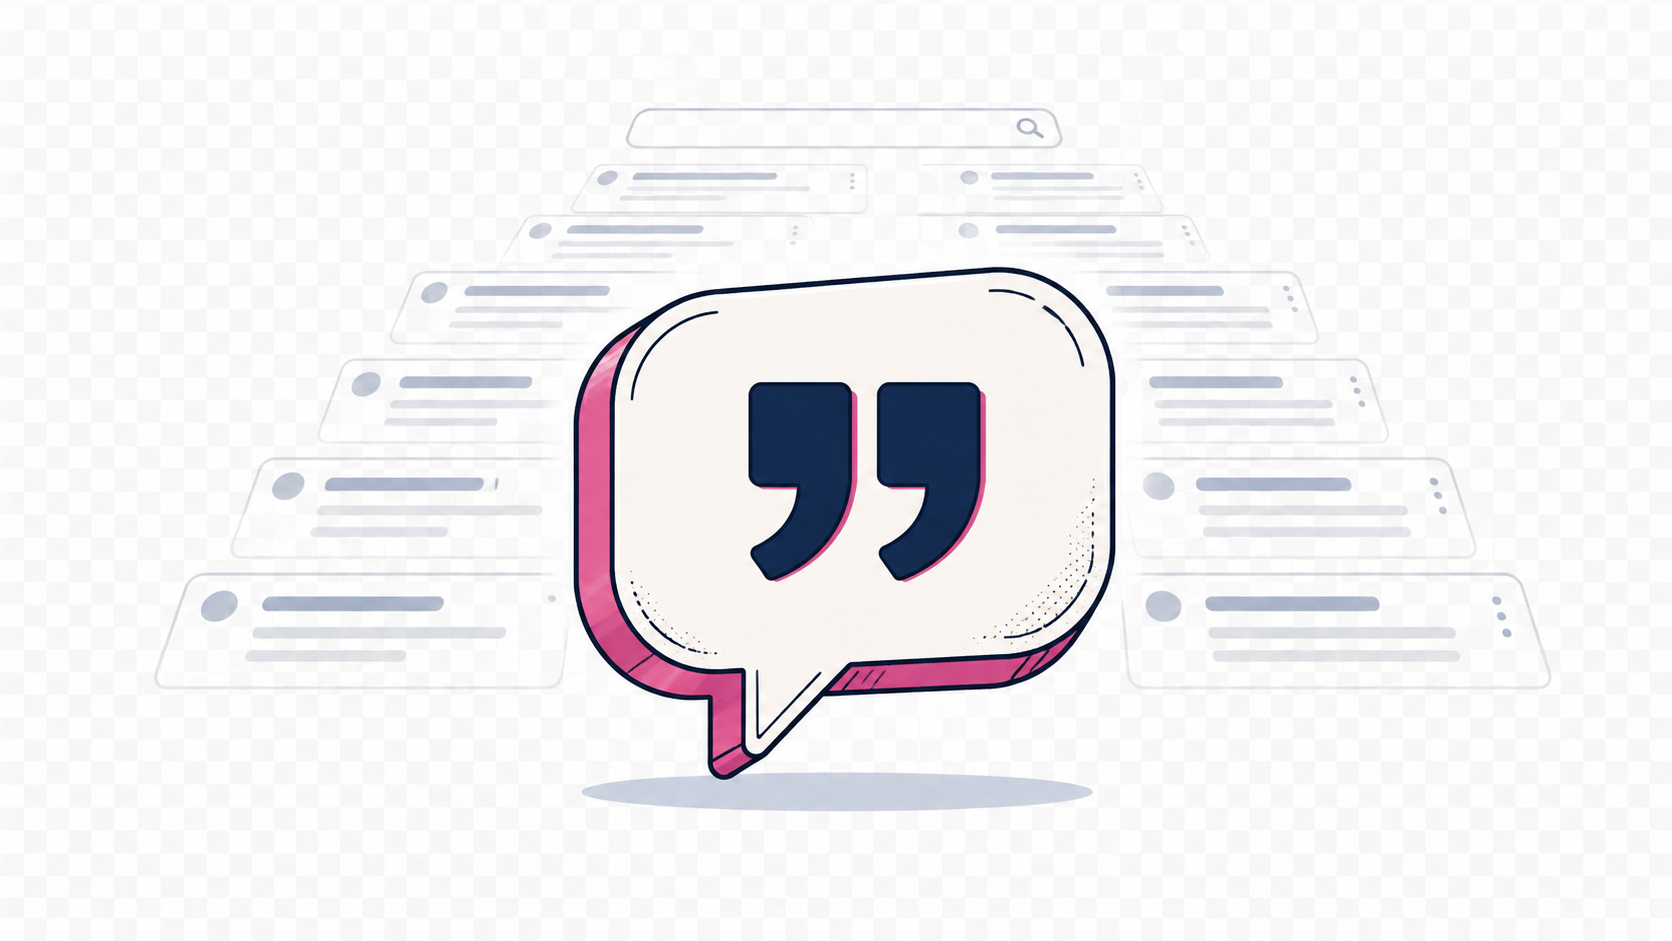
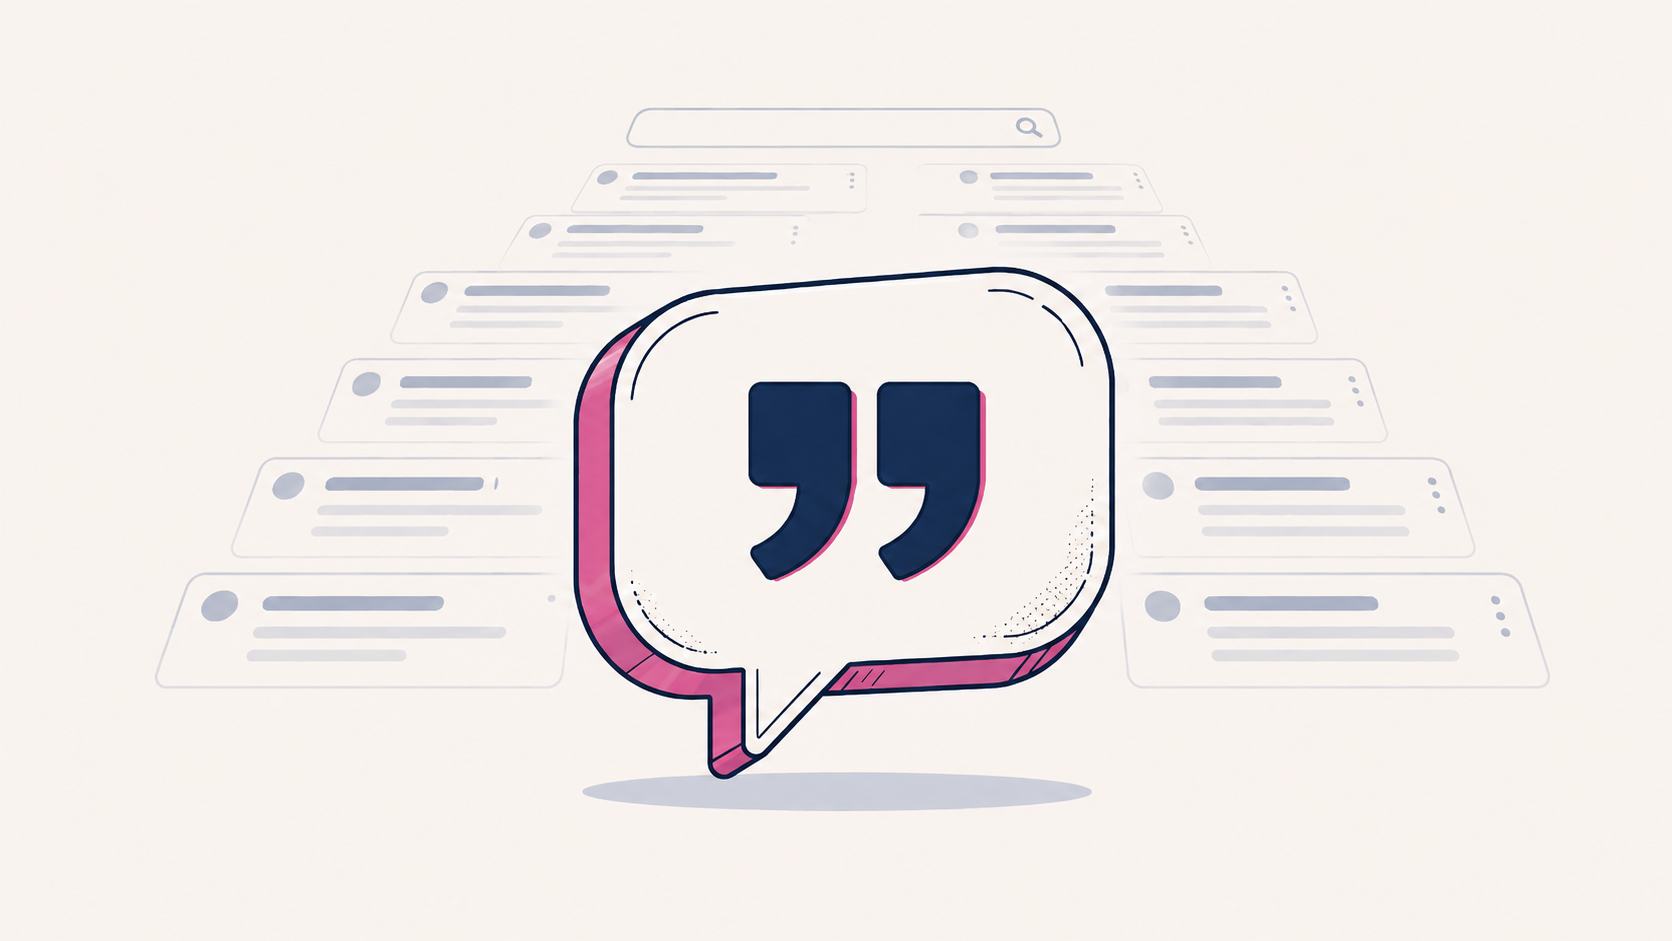
Width fix v2: remove inner constraint so blog + comparison pages are uniform
Previous attempt mixed a wider 980px container with narrower 720px (or 760px)
paragraph constraints — visible result was uneven: text columns centered with
empty margins while CTAs, FAQ blocks, and images spanned the full container.
Reported in Chrome and Safari.

This commit removes the inner-element max-width override on all 5 blog posts
and all 3 comparison pages. Everything inside .article-content / .content-inner
now sits at the full 980px container width.

Trade-off: line length is wider than typographic ideal (~85 chars vs ideal 60-75),
but visual consistency wins. Matches Miri's "use the full width" instruction.

Also:
- Tighten favicon (images/icon.png) by cropping to the mark's bounding box,
  recentering on a square 512x512 canvas. The pink circle mark now fills the
  visible area instead of sitting in a sea of transparency.
- Replace images/blog/citation-is-the-new-ranking.png with the new file Miri
  generated with the correct sand background applied directly in ChatGPT.

diff --git a/blog/buying-enterprise-ai-licence-is-not-a-strategy.html b/blog/buying-enterprise-ai-licence-is-not-a-strategy.html
@@ -122,7 +122,6 @@ body.nav-open .nav-toggle span:nth-child(3){transform:translateY(-7px) rotate(-4
 
 .article-body{background:#fff;padding:72px 60px}
 .article-content{max-width:980px;margin:0 auto}
-.article-content p,.article-content ul,.article-content ol,.article-content h2,.article-content h3,.article-content blockquote,.article-content .faq-block{max-width:720px;margin-left:auto;margin-right:auto}
 .article-content h2{font-size:30px;font-weight:700;color:var(--ink);line-height:1.2;margin:48px 0 16px;letter-spacing:-.5px}
 .article-content h3{font-size:21px;font-weight:700;color:var(--ink);line-height:1.3;margin:36px 0 12px}
 .article-content p{font-size:17px;line-height:1.72;color:var(--body-sand);margin-bottom:22px}

diff --git a/blog/citation-is-the-new-ranking.html b/blog/citation-is-the-new-ranking.html
@@ -120,7 +120,6 @@ body.nav-open .nav-toggle span:nth-child(3){transform:translateY(-7px) rotate(-4
 .article-header .lede{font-size:18px;color:var(--body-dark);line-height:1.65;max-width:680px}
 .article-body{background:#fff;padding:72px 60px}
 .article-content{max-width:980px;margin:0 auto}
-.article-content p,.article-content ul,.article-content ol,.article-content h2,.article-content h3,.article-content blockquote,.article-content .faq-block{max-width:720px;margin-left:auto;margin-right:auto}
 .article-content h2{font-size:30px;font-weight:700;color:var(--ink);line-height:1.2;margin:48px 0 16px;letter-spacing:-.5px}
 .article-content h3{font-size:21px;font-weight:700;color:var(--ink);line-height:1.3;margin:36px 0 12px}
 .article-content p{font-size:17px;line-height:1.72;color:var(--body-sand);margin-bottom:22px}

diff --git a/blog/the-day-one-consideration-list.html b/blog/the-day-one-consideration-list.html
@@ -120,7 +120,6 @@ body.nav-open .nav-toggle span:nth-child(3){transform:translateY(-7px) rotate(-4
 .article-header .lede{font-size:18px;color:var(--body-dark);line-height:1.65;max-width:680px}
 .article-body{background:#fff;padding:72px 60px}
 .article-content{max-width:980px;margin:0 auto}
-.article-content p,.article-content ul,.article-content ol,.article-content h2,.article-content h3,.article-content blockquote,.article-content .faq-block{max-width:720px;margin-left:auto;margin-right:auto}
 .article-content h2{font-size:30px;font-weight:700;color:var(--ink);line-height:1.2;margin:48px 0 16px;letter-spacing:-.5px}
 .article-content h3{font-size:21px;font-weight:700;color:var(--ink);line-height:1.3;margin:36px 0 12px}
 .article-content p{font-size:17px;line-height:1.72;color:var(--body-sand);margin-bottom:22px}

diff --git a/blog/top-5-benefits-of-hiring-a-fractional-cmo.html b/blog/top-5-benefits-of-hiring-a-fractional-cmo.html
@@ -122,7 +122,6 @@ body.nav-open .nav-toggle span:nth-child(3){transform:translateY(-7px) rotate(-4
 
 .article-body{background:#fff;padding:72px 60px}
 .article-content{max-width:980px;margin:0 auto}
-.article-content p,.article-content ul,.article-content ol,.article-content h2,.article-content h3,.article-content blockquote,.article-content .faq-block{max-width:720px;margin-left:auto;margin-right:auto}
 .article-content h2{font-size:30px;font-weight:700;color:var(--ink);line-height:1.2;margin:48px 0 16px;letter-spacing:-.5px}
 .article-content h3{font-size:21px;font-weight:700;color:var(--ink);line-height:1.3;margin:36px 0 12px}
 .article-content p{font-size:17px;line-height:1.72;color:var(--body-sand);margin-bottom:22px}

diff --git a/blog/your-b2b-buyers-arent-clicking-anymore.html b/blog/your-b2b-buyers-arent-clicking-anymore.html
@@ -122,7 +122,6 @@ body.nav-open .nav-toggle span:nth-child(3){transform:translateY(-7px) rotate(-4
 
 .article-body{background:#fff;padding:72px 60px}
 .article-content{max-width:980px;margin:0 auto}
-.article-content p,.article-content ul,.article-content ol,.article-content h2,.article-content h3,.article-content blockquote,.article-content .faq-block{max-width:720px;margin-left:auto;margin-right:auto}
 .article-content h2{font-size:30px;font-weight:700;color:var(--ink);line-height:1.2;margin:48px 0 16px;letter-spacing:-.5px}
 .article-content h3{font-size:21px;font-weight:700;color:var(--ink);line-height:1.3;margin:36px 0 12px}
 .article-content p{font-size:17px;line-height:1.72;color:var(--body-sand);margin-bottom:22px}

diff --git a/fractional-cmo-vs-agency.html b/fractional-cmo-vs-agency.html
@@ -97,7 +97,6 @@ body.nav-open .nav-toggle span:nth-child(3){transform:translateY(-7px) rotate(-4
 .qa-text{font-size:19px;line-height:1.6;color:var(--ink);font-weight:500}
 .content-sec{padding:72px 60px}
 .content-inner{max-width:980px;margin:0 auto}
-.content-inner p,.content-inner ul,.content-inner h2,.content-inner h3{max-width:760px}
 .content-inner h2{font-size:30px;font-weight:700;color:var(--ink);line-height:1.2;margin:48px 0 14px;letter-spacing:-0.4px}
 .content-inner h2:first-child{margin-top:0}
 .content-inner h3{font-size:21px;font-weight:700;color:var(--ink);line-height:1.3;margin:32px 0 10px}

diff --git a/fractional-cmo-vs-consultant.html b/fractional-cmo-vs-consultant.html
@@ -97,7 +97,6 @@ body.nav-open .nav-toggle span:nth-child(3){transform:translateY(-7px) rotate(-4
 .qa-text{font-size:19px;line-height:1.6;color:var(--ink);font-weight:500}
 .content-sec{padding:72px 60px}
 .content-inner{max-width:980px;margin:0 auto}
-.content-inner p,.content-inner ul,.content-inner h2,.content-inner h3{max-width:760px}
 .content-inner h2{font-size:30px;font-weight:700;color:var(--ink);line-height:1.2;margin:48px 0 14px;letter-spacing:-0.4px}
 .content-inner h2:first-child{margin-top:0}
 .content-inner h3{font-size:21px;font-weight:700;color:var(--ink);line-height:1.3;margin:32px 0 10px}

diff --git a/fractional-cmo-vs-full-time.html b/fractional-cmo-vs-full-time.html
@@ -98,7 +98,6 @@ body.nav-open .nav-toggle span:nth-child(3){transform:translateY(-7px) rotate(-4
 .qa-text{font-size:19px;line-height:1.6;color:var(--ink);font-weight:500}
 .content-sec{padding:72px 60px}
 .content-inner{max-width:980px;margin:0 auto}
-.content-inner p,.content-inner ul,.content-inner h2,.content-inner h3{max-width:760px}
 .content-inner h2{font-size:30px;font-weight:700;color:var(--ink);line-height:1.2;margin:48px 0 14px;letter-spacing:-0.4px}
 .content-inner h2:first-child{margin-top:0}
 .content-inner h3{font-size:21px;font-weight:700;color:var(--ink);line-height:1.3;margin:32px 0 10px}